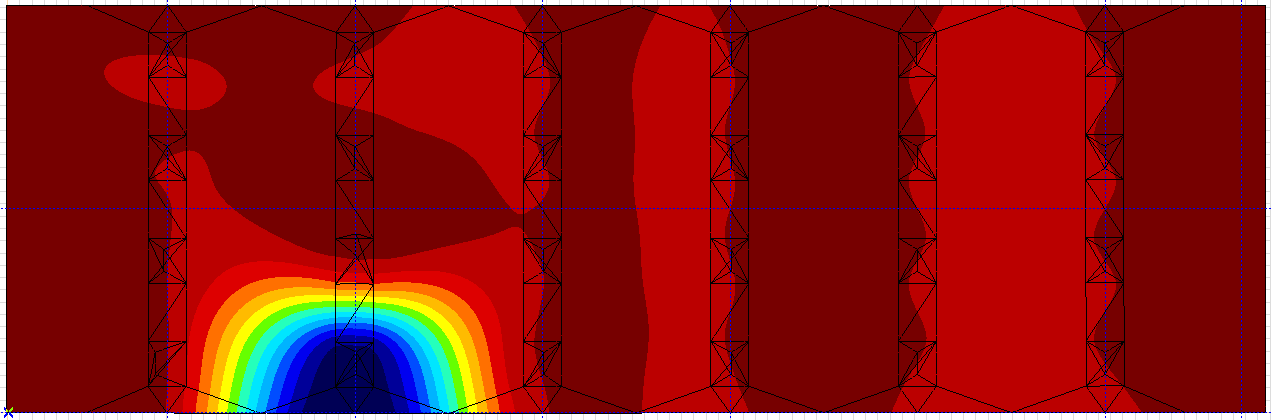
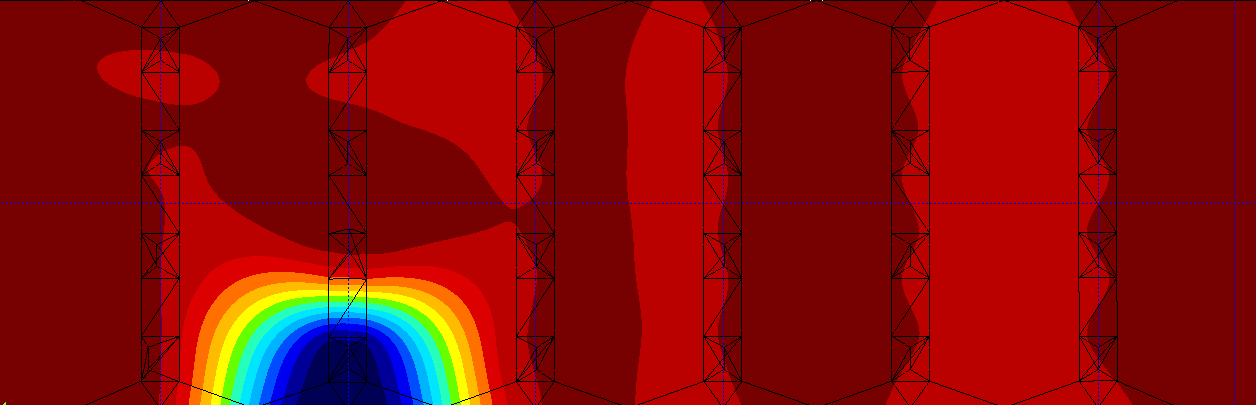
Update Axis pier diplacement plots

Changed region(s): [[0.0, 0.0, 1.0, 1.0]]

diff --git a/code/make/plot/contour/__init__.py b/code/make/plot/contour/__init__.py
@@ -27,7 +27,7 @@ from make.plot.distribution import load_normal_traffic_array
 from model.bridge import Point
 from model.load import DisplacementCtrl, PointLoad
 from model.response import ResponseType
-from plot import diana_cmap, diana_r_cmap, parula_cmap, plt
+from plot import axis_colors, diana_cmap, diana_r_cmap, parula_cmap, plt
 from plot.contour import contour_responses_3d
 from plot.geometry import top_view_bridge
 from plot.responses import plot_contour_deck, resize_units
@@ -231,8 +231,13 @@ def cracked_concrete_plots(c: Config):
         plt.close()
 
 
-def piers_displaced(c: Config, pier_indices: List[int]):
+def piers_displaced(c: Config):
     """Contour plots of pier displacement for the given pier indices."""
+    pier_indices = [4, 5]
+    color_bins = {
+        4: [1.19,.8,.7,.6,.5,.4,.3,.2,.1,0,-.1,-.2,-.3,-.4,-.61],
+        5: [1.36,1.05,.9,.75,.6,.45,.3,.15,0,-.15,-.3,-.45,-.6,-.75,-1.1],
+    }
     y = 0
     response_types = [ResponseType.YTranslation, ResponseType.Strain]
     axis_values = pd.read_csv("validation/axis-screenshots/piers-min-max.csv")
@@ -261,7 +266,6 @@ def piers_displaced(c: Config, pier_indices: List[int]):
                 response_type=response_type,
                 sim_runner=OSRunner(c),
                 run=r_i == 0,  # Only need to run it once.
-
             )
 
             # Map simulation strains to stresses.
@@ -279,23 +283,26 @@ def piers_displaced(c: Config, pier_indices: List[int]):
             # Plot and save the image. If plotting strains use Axis values for
             # colour normalization.
             norm = None
+            cmap = colors.LinearSegmentedColormap.from_list(
+                "axis", list(reversed(axis_colors)), N=14)
             if response_type == ResponseType.Strain:
-                norm = colors.Normalize(vmin=row["min"], vmax=row["max"])
+                bins = color_bins[p]
+                assert len(bins) == 15
+                norm = colors.BoundaryNorm(list(reversed(bins)), len(bins))
+                plt.scatter(x=[0, 0], y=[0, 0], c=[bins[0], bins[-1]], alpha=0)
                 sim_response_values = list(sim_responses.values())
-                # Assert we're not cutting off our values.
-                assert min(sim_response_values) > float(row["min"])
-                assert max(sim_response_values) < float(row["max"])
             top_view_bridge(c.bridge, abutments=True, piers=True)
             plot_contour_deck(
                 c=c,
                 y=y,
-                cmap=get_cmap("jet"),
+                cmap=cmap,
                 norm=norm,
                 responses=sim_responses,
-                title=f"{response_type.name()} from pier settlement of 1 mm",
                 levels=14,
                 units=units,
+                show_legend=response_type == ResponseType.YTranslation,
             )
+            plt.title(f"{response_type.name()} from pier settlement of 1 mm")
             plt.savefig(
                 c.get_image_path(
                     "validation/pier-displacement",
@@ -308,7 +315,7 @@ def piers_displaced(c: Config, pier_indices: List[int]):
             axis_img = mpimg.imread(
                 f"validation/axis-screenshots/{p}-{rt_str}.png"
             )
-            top_view_bridge(c.bridge, piers=True, abutments=True)
+            top_view_bridge(c.bridge, abutments=True)
             plt.imshow(
                 axis_img,
                 extent=(
@@ -321,9 +328,9 @@ def piers_displaced(c: Config, pier_indices: List[int]):
             # Plot the load and min, max values.
             amin, amax = float(row["min"]), float(row["max"])
             for point, leg_label, color in [
-                ((0, 0), f"min = {amin:.2f} {unit_str}", "r"),
-                ((0, 0), f"max = {amax:.2f} {unit_str}", "r"),
-                ((0, 0), f"|min-max| = {abs(amax - amin):.2f} {unit_str}", "r"),
+                ((0, 0), f"min = {np.around(amin, 3)} {unit_str}", "r"),
+                ((0, 0), f"max = {np.around(amax, 3)} {unit_str}", "r"),
+                ((0, 0), f"|min-max| = {np.around(abs(amax - amin), 3)} {unit_str}", "r"),
             ]:
                 plt.scatter(
                     [point[0]],
@@ -333,9 +340,10 @@ def piers_displaced(c: Config, pier_indices: List[int]):
                     color=color,
                     alpha=0,
                 )
-            plt.legend()
+            if response_type == ResponseType.YTranslation:
+                plt.legend()
             # Add the Axis colorbar.
-            plt.imshow(np.array([[amin, amax]]), cmap=get_cmap("jet"), extent=(0, 0, 0, 0))
+            plt.imshow(np.array([[amin, amax]]), cmap=cmap, norm=norm, extent=(0, 0, 0, 0))
             clb = plt.colorbar()
             clb.ax.set_title(unit_str)
             # Title and save.

diff --git a/code/plot/responses.py b/code/plot/responses.py
@@ -68,13 +68,13 @@ def plot_contour_deck(
     responses: Responses,
     y: float = 0,
     ploads: List[PointLoad] = [],
-    title: Optional[str] = None,
     cmap=default_cmap,
     norm=None,
     scatter: bool = False,
     levels: int = 25,
     resize: bool = True,
     units: Optional[str] = None,
+    show_legend: bool = True,
 ):
     """Contour plot of given responses. Iterate over x and z for a fixed y."""
     # Structure data.
@@ -97,12 +97,6 @@ def plot_contour_deck(
                 if H[-1] < amin:
                     amin = H[-1]
                     amin_x, amin_z = X[-1], Z[-1]
-    # print(X)
-    # X, Z, H = np.array(X), np.array(Z), np.array(H)
-    # print(X)
-    # print(X.shape)
-    # print(Z.shape)
-    # print(H.shape)
     if len(X) == 0:
         raise ValueError(f"No responses for contour plot")
 
@@ -124,7 +118,6 @@ def plot_contour_deck(
             norm=norm,
             s=1,
         )
-        print("Scattering")
     else:
         cs = plt.tricontourf(X, Z, H, levels=levels, cmap=cmap, norm=norm)
     clb = plt.colorbar(cs, norm=norm)
@@ -147,10 +140,8 @@ def plot_contour_deck(
         plt.scatter(
             [point[0]], [point[1]], label=label, marker="o", color=color, alpha=alpha,
         )
+    if show_legend:
+        plt.legend()
 
-    # Titles and labels.
-    plt.legend()
-    if title:
-        plt.title(title)
     plt.xlabel("X position (m)")
     plt.ylabel("Z position (m)")

diff --git a/code/plot/__init__.py b/code/plot/__init__.py
@@ -157,7 +157,7 @@ parula_cmap = colors.LinearSegmentedColormap.from_list(
 default_cmap = matplotlib.cm.get_cmap("viridis")
 
 
-# Add the colorbar from Diana.
+# Colourbar from Diana.
 diana_colors = [
     np.array([252, 13, 27]) / 255,
     np.array([253, 144, 38]) / 255,
@@ -174,6 +174,24 @@ diana_cmap = matplotlib.colors.LinearSegmentedColormap.from_list(
 diana_r_cmap = matplotlib.colors.LinearSegmentedColormap.from_list(
     "diana_r", diana_colors[::-1], N=len(diana_colors)
 )
+
+# Colourbar from Axis.
+axis_colors = [
+    np.array([118, 2, 6]) / 255,
+    np.array([185, 6, 17]) / 255,
+    np.array([218, 10, 22]) / 255,
+    np.array([253, 112, 34]) / 255,
+    np.array([253, 186, 44]) / 255,
+    np.array([255, 253, 56]) / 255,
+    np.array([109, 253, 48]) / 255,
+    np.array([58, 254, 188]) / 255,
+    np.array([40, 230, 253]) / 255,
+    np.array([31, 180, 252]) / 255,
+    np.array([15, 85, 251]) / 255,
+    np.array([10, 33, 236]) / 255,
+    np.array([3, 17, 150]) / 255,
+    np.array([1, 5, 183]) / 255,
+]  # R -> G -> B
 
 
 class Color:

diff --git a/code/cli.py b/code/cli.py
@@ -239,11 +239,8 @@ def sensors():
 
 
 @validate.command(help="Contour plots of unit pier displacement.")
-@click.option("--piers", type=str, default="5,4", help="Indices of piers to displace.")
-def pier_disp(piers):
-    pier_indices = [int(p.strip()) for p in piers.split(",")]
-    print_i(f"Pier indices = {pier_indices}")
-    contour_.piers_displaced(c=c(), pier_indices=pier_indices)
+def pier_disp():
+    contour_.piers_displaced(c())
 
 
 @validate.command(help="Confirm that density has no effect on simulation.")
